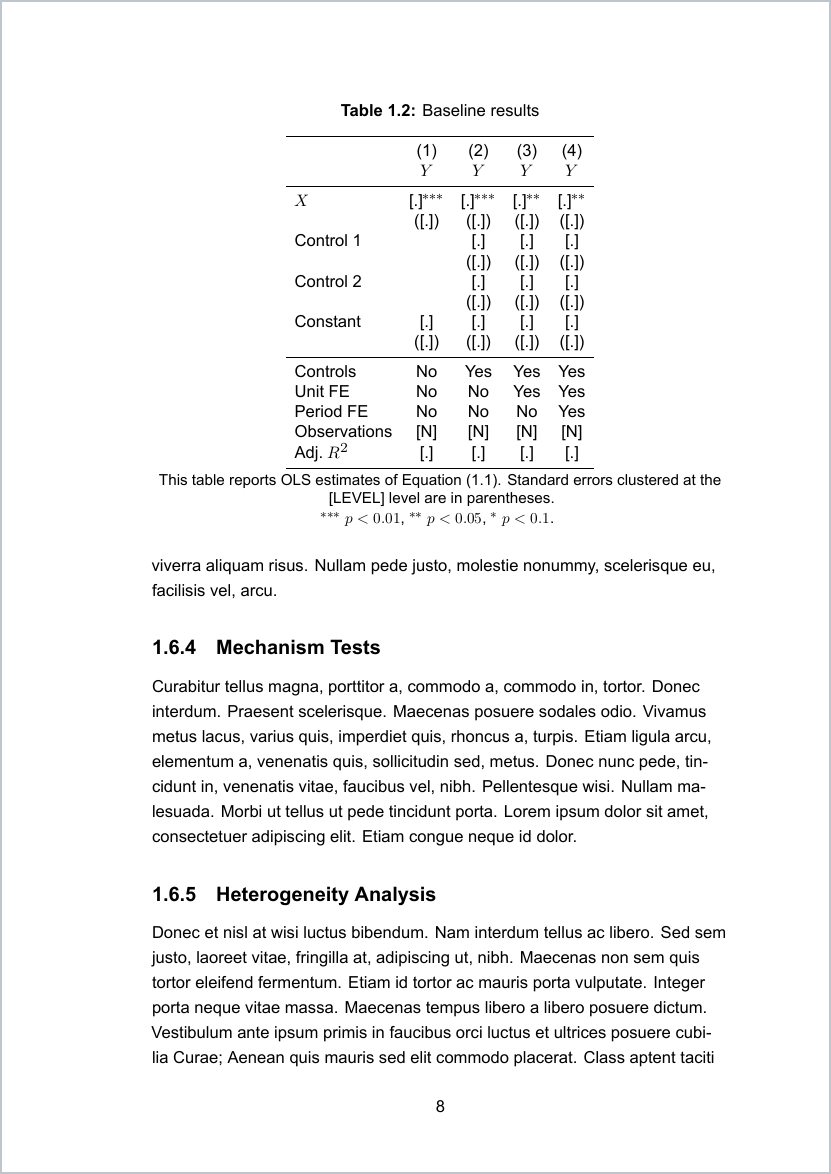
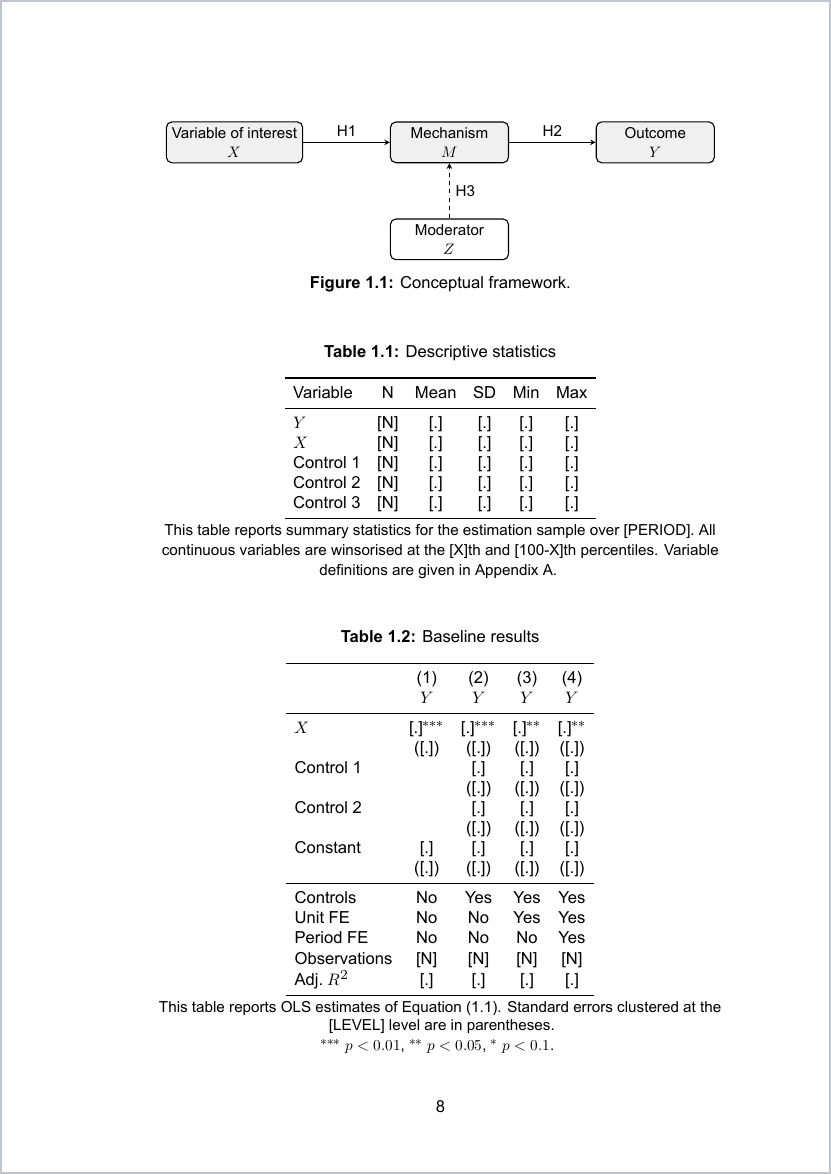
fix(floats): use the thesis convention for exhibit placement
The template put tables at [htbp], inline with the text. That is not
what empirical finance theses do, and it is not what the reference
thesis this template was derived from does -- all sixteen of its tables
use [p].

- worked exhibits now use \begin{table}[p] and \begin{figure}[p], so
  they take a float page rather than squeezing beside the text
- documents what LaTeX then does: a float page holds as many floats as
  fit, so the small demo exhibits share one page. Real regression
  tables are large enough that each takes its own, and a table that
  does pack is small enough to sit inline at [htbp]
- adds a tested endfloat switch in main.tex for the opposite
  convention: journal submissions want "[Table 1 about here]" in the
  text with exhibits at the end, because their typesetters place the
  floats. Verified both configurations compile and that endfloat emits
  the markers

The policy has nothing to say about placement -- 6.4 only requires
floats stay inside the single page-number sequence, which they do
either way. README now explains the thesis/journal split.

Preview images regenerated; checkpolicy still 12/12.

Claude-Session: https://claude.ai/code/session_01Cqzp75sQWJbKVA82PfeTt5

diff --git a/main.tex b/main.tex
@@ -213,6 +213,35 @@
 % Section 6.5 also asks that text not be placed over images. If you
 % annotate a figure, put the labels beside the image or in the caption.
 
+%%%%%%%%%%%%%%%%%%%%%%%%%%%%%%%%%%%%%%%%%%%%%%%%%%%%%%%%%%%%%%%%%%%%%%
+% WHERE TABLES AND FIGURES GO
+%
+% The policy is silent on placement. Section 6.4 only requires that
+% tables, figures and appendices stay inside the single page-number
+% sequence, which they do either way. So this is convention -- and the
+% convention differs between a thesis and a journal submission.
+%
+% A THESIS is the final artefact. Nobody typesets it afterwards, and
+% your examiners read exactly what you submit, so the exhibits stay in
+% the chapter. In empirical finance they conventionally take a float
+% page of their own -- \begin{table}[p] -- because a regression table
+% rarely fits beside the text discussing it. That is what the worked
+% tables in chapters/chapter1.tex do.
+%
+% A JOURNAL SUBMISSION is the opposite. JF, JFE, RFS and JFQA want
+% "[Table 1 about here]" in the text with the exhibits collected at the
+% end, because their typesetters place the floats. When you cut a
+% chapter into a submission, uncomment the two lines below rather than
+% moving anything by hand: endfloat moves every float to the end and
+% leaves the markers behind for you.
+%
+%   \usepackage[tablesfirst]{endfloat}
+%   \renewcommand{\efloatseparator}{\mbox{}}
+%
+% Use \FloatBarrier (from placeins, already loaded) to stop a float
+% drifting past a section heading it belongs to.
+%%%%%%%%%%%%%%%%%%%%%%%%%%%%%%%%%%%%%%%%%%%%%%%%%%%%%%%%%%%%%%%%%%%%%%
+
 % Hyperlinks -- loaded late; cleveref must follow hyperref.
 \usepackage[bookmarks=true, hidelinks]{hyperref}
 \hypersetup{

diff --git a/chapters/chapter1.tex b/chapters/chapter1.tex
@@ -92,7 +92,7 @@ Section~\ref{sec:ch1-conclusion} concludes.
 
 Figure~\ref{fig:ch1-framework} summarises the conceptual model.
 
-\begin{figure}[htbp]
+\begin{figure}[p]
 \centering
 \begin{tikzpicture}[
     >=stealth,
@@ -181,7 +181,20 @@ $\beta_1 > 0$.
 
 Table~\ref{tab:ch1-descriptive} reports the descriptive statistics.
 
-\begin{table}[htbp]
+% [p] sends the table to a float page rather than squeezing it beside the
+% text -- the empirical finance convention, and what a full-width
+% regression table needs anyway.
+%
+% Note what LaTeX does with it: a float page holds as many floats as fit,
+% so the two demo tables and the framework figure below all land on one
+% page. Real regression tables are large enough that each takes a page of
+% its own, so this does not happen in a finished thesis. If yours do pack
+% together, they are small enough to sit inline -- use [htbp] for those.
+%
+% For a journal submission the convention is the opposite: markers in the
+% text, exhibits at the end. See the float-placement note in main.tex --
+% switch it there rather than moving anything by hand.
+\begin{table}[p]
     \centering
     \caption{Descriptive statistics}
     \label{tab:ch1-descriptive}
@@ -211,7 +224,7 @@ Table~\ref{tab:ch1-descriptive} reports the descriptive statistics.
 Table~\ref{tab:ch1-baseline} reports estimates of
 Equation~\eqref{eq:ch1-baseline}.
 
-\begin{table}[htbp]
+\begin{table}[p]
     \centering
     \caption{Baseline results}
     \label{tab:ch1-baseline}

diff --git a/README.md b/README.md
@@ -26,7 +26,7 @@ metadata block at the top of `main.tex`.
 <td align="center"><sub><b>Title page</b><br>§5.3 &amp; §5.4 compliant</sub></td>
 <td align="center"><sub><b>Contents</b><br>§5.2</sub></td>
 <td align="center"><sub><b>Chapter opening</b><br>Arial, 1.5 spacing, left-aligned</sub></td>
-<td align="center"><sub><b>Worked table</b><br>copy it for your own results</sub></td>
+<td align="center"><sub><b>Exhibits on a float page</b><br>the finance convention; §6.4 keeps them in the page sequence</sub></td>
 </tr>
 </table>
 
@@ -310,6 +310,26 @@ It ships with two worked exhibits to copy: a **descriptive statistics table** an
 a **four-column regression table** with a fixed-effects ladder, clustered
 standard errors in parentheses and significance stars — both `booktabs`, with
 placeholder cells (`[.]`, `[N]`) rather than numbers.
+
+### Where tables and figures go
+
+The policy is silent on placement — §6.4 only requires that tables, figures and
+appendices stay inside the single page-number sequence, which they do either
+way. So this is convention, and the convention **differs between a thesis and a
+journal submission**:
+
+- **A thesis** is the final artefact. Nobody typesets it afterwards and your
+  examiners read exactly what you submit, so exhibits stay in the chapter. In
+  empirical finance they take a float page of their own — `\begin{table}[p]` —
+  because a regression table rarely fits beside the text discussing it. **That is
+  the default here.**
+- **A journal submission** is the opposite. JF, JFE, RFS and JFQA want
+  `[Table 1 about here]` in the text with the exhibits collected at the end,
+  because their typesetters place the floats.
+
+When you cut a chapter into a submission, uncomment the two `endfloat` lines in
+`main.tex` rather than moving anything by hand — it relocates every float and
+leaves the markers behind for you. Both configurations are tested.
 
 The comments in the file are prompts about what belongs in each section. Delete
 them as you write.
